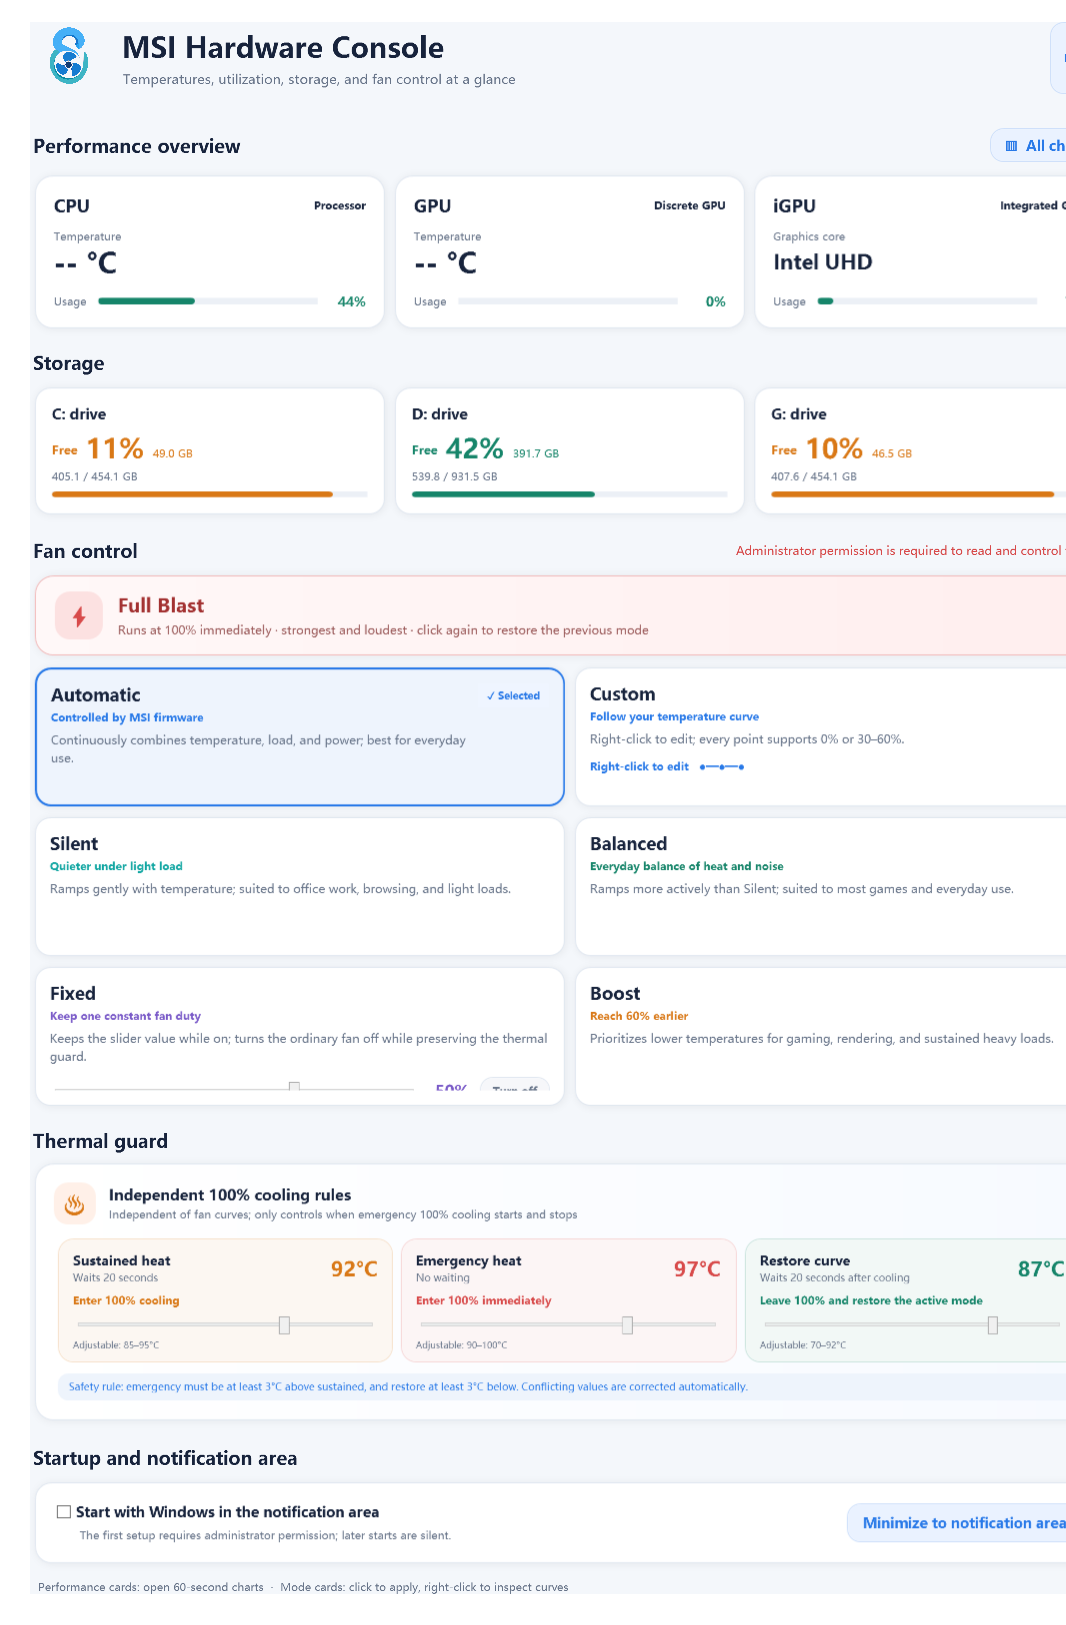
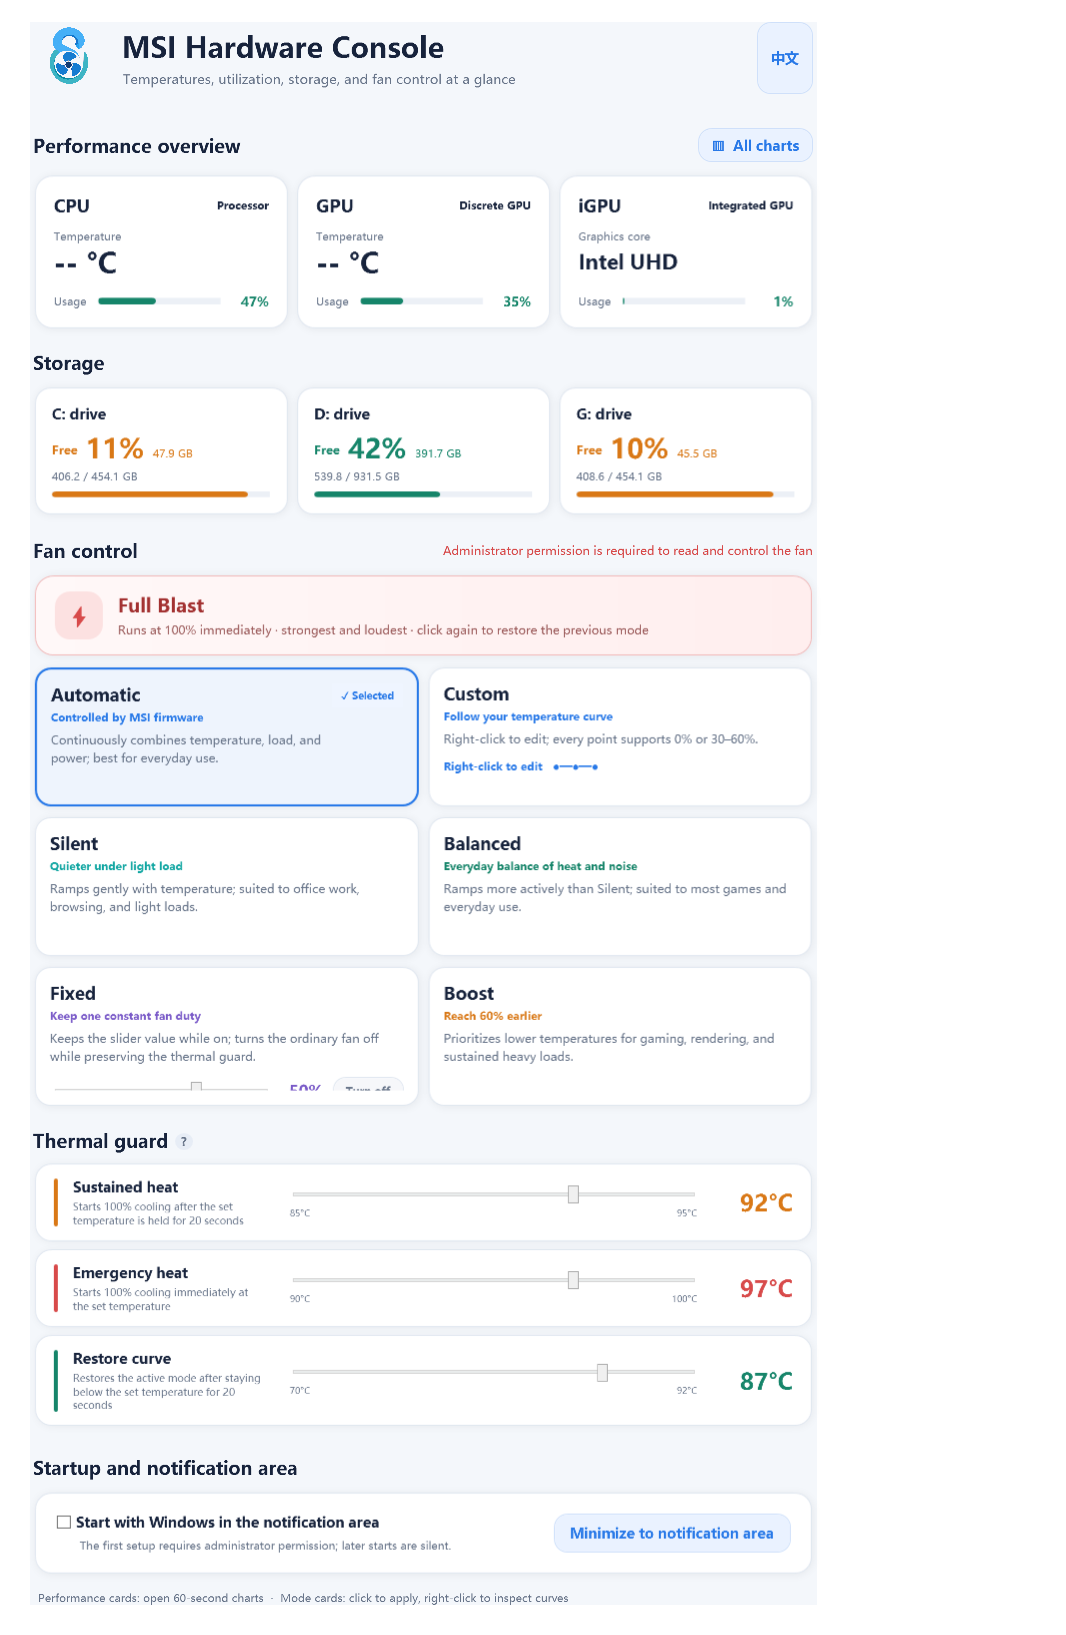
Redesign thermal guard controls (#6)
Redesign the Thermal guard section as three horizontal controls with hover help, while preserving the existing protection logic and safety constraints.

diff --git a/src/MainWindow.cs b/src/MainWindow.cs
@@ -208,7 +208,7 @@ namespace MsiHardwareConsole
             root.Children.Add(fanHeaderElement);
             root.Children.Add(BuildBlastCard());
             root.Children.Add(BuildModeGrid());
-            root.Children.Add(SectionHeader(T("Thermal guard", "高温保护"), null));
+            root.Children.Add(BuildProtectionHeader());
             root.Children.Add(BuildProtectionSettingsCard());
             root.Children.Add(SectionHeader(T("Startup and notification area", "启动与托盘"), null));
             root.Children.Add(BuildSettingsCard());
@@ -307,6 +307,69 @@ namespace MsiHardwareConsole
                 Grid.SetColumn(right, 1);
                 grid.Children.Add(right);
             }
+            return grid;
+        }
+
+        private UIElement BuildProtectionHeader()
+        {
+            var grid = new Grid { Margin = new Thickness(3, 18, 3, 8) };
+            grid.ColumnDefinitions.Add(new ColumnDefinition { Width = GridLength.Auto });
+            grid.ColumnDefinitions.Add(new ColumnDefinition { Width = GridLength.Auto });
+            grid.ColumnDefinitions.Add(new ColumnDefinition { Width = new GridLength(1, GridUnitType.Star) });
+            grid.Children.Add(new TextBlock
+            {
+                Text = T("Thermal guard", "高温保护"),
+                FontSize = 18,
+                FontWeight = FontWeights.SemiBold,
+                Foreground = TextBrush,
+                VerticalAlignment = VerticalAlignment.Center
+            });
+
+            var help = new Border
+            {
+                Width = 18,
+                Height = 18,
+                CornerRadius = new CornerRadius(9),
+                Background = MakeBrush("#E7EDF6"),
+                Margin = new Thickness(7, 1, 0, 0),
+                Cursor = Cursors.Help,
+                VerticalAlignment = VerticalAlignment.Center,
+                Child = new TextBlock
+                {
+                    Text = "?",
+                    FontSize = 12,
+                    FontWeight = FontWeights.Bold,
+                    Foreground = MutedBrush,
+                    HorizontalAlignment = HorizontalAlignment.Center,
+                    VerticalAlignment = VerticalAlignment.Center
+                }
+            };
+            help.ToolTip = new ToolTip
+            {
+                Padding = new Thickness(13, 10, 13, 10),
+                Content = new TextBlock
+                {
+                    Width = 390,
+                    TextWrapping = TextWrapping.Wrap,
+                    LineHeight = 19,
+                    Foreground = TextBrush,
+                    Text = T(
+                        "Thermal guard is independent of ordinary fan curves. Outside Automatic mode, it only controls when emergency 100% cooling starts and stops.\n\n" +
+                        "Sustained heat: starts 100% after the set temperature is held for 20 seconds.\n" +
+                        "Emergency heat: starts 100% immediately at the set temperature.\n" +
+                        "Restore curve: leaves 100% and restores the active mode after staying below the set temperature for 20 seconds.\n\n" +
+                        "Safety rule: emergency must be at least 3°C above sustained, and restore at least 3°C below. Conflicting values are corrected automatically.",
+                        "高温保护独立于普通风扇曲线，只在非自动模式下决定何时进入或退出 100% 紧急散热。\n\n" +
+                        "持续高温：达到设置温度并持续 20 秒后进入 100%。\n" +
+                        "紧急高温：达到设置温度后立即进入 100%。\n" +
+                        "恢复曲线：降到设置温度并持续 20 秒后退出 100%，恢复当前模式。\n\n" +
+                        "安全约束：紧急温度至少比持续温度高 3°C；恢复温度至少低 3°C。冲突的设置会自动修正。")
+                }
+            };
+            ToolTipService.SetInitialShowDelay(help, 120);
+            ToolTipService.SetShowDuration(help, 30000);
+            Grid.SetColumn(help, 1);
+            grid.Children.Add(help);
             return grid;
         }
 
@@ -496,100 +559,63 @@ namespace MsiHardwareConsole
 
         private UIElement BuildProtectionSettingsCard()
         {
-            var card = Card(new Thickness(18), 18);
-            card.Margin = new Thickness(5, 3, 5, 8);
-            card.Background = new LinearGradientBrush(Color.FromRgb(255, 255, 255), Color.FromRgb(247, 250, 255), 0);
-            var root = new StackPanel();
-            var heading = new Grid();
-            heading.ColumnDefinitions.Add(new ColumnDefinition { Width = GridLength.Auto });
-            heading.ColumnDefinitions.Add(new ColumnDefinition { Width = new GridLength(1, GridUnitType.Star) });
-            var icon = new Border
-            {
-                Width = 42,
-                Height = 42,
-                CornerRadius = new CornerRadius(14),
-                Background = MakeBrush("#FFF0E8"),
-                Margin = new Thickness(0, 0, 13, 0),
-                Child = new TextBlock { Text = "♨", FontSize = 21, Foreground = WarningBrush, HorizontalAlignment = HorizontalAlignment.Center, VerticalAlignment = VerticalAlignment.Center }
-            };
-            heading.Children.Add(icon);
-            var headingText = new StackPanel { VerticalAlignment = VerticalAlignment.Center };
-            headingText.Children.Add(new TextBlock { Text = T("Independent 100% cooling rules", "独立 100% 散热规则"), FontSize = 15, FontWeight = FontWeights.SemiBold, Foreground = TextBrush });
-            headingText.Children.Add(new TextBlock
-            {
-                Text = T("Independent of fan curves; only controls when emergency 100% cooling starts and stops", "独立于风扇曲线，只决定何时进入或退出 100% 紧急散热"),
-                FontSize = 11,
-                Foreground = MutedBrush,
-                Margin = new Thickness(0, 3, 0, 0)
-            });
-            Grid.SetColumn(headingText, 1);
-            heading.Children.Add(headingText);
-            root.Children.Add(heading);
-
-            var controls = new UniformGrid { Columns = 3, Margin = new Thickness(0, 14, 0, 0) };
-            controls.Children.Add(BuildProtectionTemperatureControl(
-                T("Sustained heat", "持续高温"), T("Waits 20 seconds", "达到后等待 20 秒"), T("Enter 100% cooling", "进入 100% 散热"), T("Adjustable: 85–95°C", "可调范围 85–95°C"),
+            var root = new StackPanel { Margin = new Thickness(0, -1, 0, 8) };
+            root.Children.Add(BuildProtectionTemperatureControl(
+                T("Sustained heat", "持续高温"), T("Starts 100% cooling after the set temperature is held for 20 seconds", "达到设定温度并持续 20 秒后，开启 100% 散热"),
                 85, 95, settings.SustainedFullBlastTemperature, WarningBrush,
-                out sustainedProtectionSlider, out sustainedProtectionValue,
-                T("Enables 100% after this temperature is sustained for 20 seconds", "达到该温度并持续 20 秒后开启 100%")));
-            controls.Children.Add(BuildProtectionTemperatureControl(
-                T("Emergency heat", "紧急高温"), T("No waiting", "达到后无需等待"), T("Enter 100% immediately", "立即进入 100% 散热"), T("Adjustable: 90–100°C", "可调范围 90–100°C"),
+                out sustainedProtectionSlider, out sustainedProtectionValue));
+            root.Children.Add(BuildProtectionTemperatureControl(
+                T("Emergency heat", "紧急高温"), T("Starts 100% cooling immediately at the set temperature", "达到设定温度后无需等待，立即开启 100% 散热"),
                 90, 100, settings.EmergencyFullBlastTemperature, DangerBrush,
-                out emergencyProtectionSlider, out emergencyProtectionValue,
-                T("Enables 100% immediately at this temperature", "达到该温度后立即开启 100%")));
-            controls.Children.Add(BuildProtectionTemperatureControl(
-                T("Restore curve", "恢复曲线"), T("Waits 20 seconds after cooling", "降温后等待 20 秒"), T("Leave 100% and restore the active mode", "退出 100% 并恢复当前模式"), T("Adjustable: 70–92°C", "可调范围 70–92°C"),
+                out emergencyProtectionSlider, out emergencyProtectionValue));
+            root.Children.Add(BuildProtectionTemperatureControl(
+                T("Restore curve", "恢复曲线"), T("Restores the active mode after staying below the set temperature for 20 seconds", "降到设定温度并持续 20 秒后，恢复当前模式曲线"),
                 70, 92, settings.FullBlastReleaseTemperature, GoodBrush,
-                out releaseProtectionSlider, out releaseProtectionValue,
-                T("Restores the selected curve after staying below this temperature for 20 seconds", "降到该温度并持续 20 秒后恢复所选曲线")));
-            root.Children.Add(controls);
-            var safetyNote = new Border
-            {
-                Background = MakeBrush("#EEF4FC"),
-                CornerRadius = new CornerRadius(10),
-                Padding = new Thickness(11, 7, 11, 7),
-                Margin = new Thickness(4, 10, 4, 0),
-                Child = new TextBlock
-                {
-                    Text = T(
-                        "Safety rule: emergency must be at least 3°C above sustained, and restore at least 3°C below. Conflicting values are corrected automatically.",
-                        "安全约束：紧急温度至少比持续温度高 3°C；恢复温度至少低 3°C。冲突的设置会自动修正。"),
-                    FontSize = 10,
-                    Foreground = AccentBrush
-                }
-            };
-            root.Children.Add(safetyNote);
+                out releaseProtectionSlider, out releaseProtectionValue));
             UpdateProtectionTemperatureLabels();
-            card.Child = root;
-            return card;
+            return root;
         }
 
-        private Border BuildProtectionTemperatureControl(string title, string timing, string action, string range,
-            int minimum, int maximum, int value, Brush accent, out Slider slider, out TextBlock valueText, string toolTip)
+        private Border BuildProtectionTemperatureControl(string title, string description,
+            int minimum, int maximum, int value, Brush accent, out Slider slider, out TextBlock valueText)
         {
             var card = new Border
             {
-                Margin = new Thickness(4, 0, 4, 0),
-                Padding = new Thickness(14, 12, 14, 11),
-                CornerRadius = new CornerRadius(15),
-                Background = MakeTint(accent, 0.055),
-                BorderBrush = MakeTint(accent, 0.22),
+                Margin = new Thickness(5, 4, 5, 4),
+                Padding = new Thickness(18, 13, 18, 13),
+                CornerRadius = new CornerRadius(16),
+                Background = SurfaceBrush,
+                BorderBrush = CardBorderBrush,
                 BorderThickness = new Thickness(1),
-                ToolTip = toolTip
+                Effect = new DropShadowEffect { Color = Color.FromRgb(38, 62, 99), BlurRadius = 13, ShadowDepth = 2, Opacity = 0.055 }
             };
-            var content = new StackPanel();
-            var heading = new Grid();
-            heading.ColumnDefinitions.Add(new ColumnDefinition { Width = new GridLength(1, GridUnitType.Star) });
-            heading.ColumnDefinitions.Add(new ColumnDefinition { Width = GridLength.Auto });
-            var labels = new StackPanel();
-            labels.Children.Add(new TextBlock { Text = title, FontSize = 13, FontWeight = FontWeights.SemiBold, Foreground = TextBrush });
-            labels.Children.Add(new TextBlock { Text = timing, FontSize = 10, Foreground = MutedBrush, Margin = new Thickness(0, 2, 0, 0) });
-            heading.Children.Add(labels);
-            valueText = new TextBlock { FontSize = 20, FontWeight = FontWeights.SemiBold, Foreground = accent, VerticalAlignment = VerticalAlignment.Center };
-            Grid.SetColumn(valueText, 1);
-            heading.Children.Add(valueText);
-            content.Children.Add(heading);
-            content.Children.Add(new TextBlock { Text = action, FontSize = 11, Foreground = accent, FontWeight = FontWeights.SemiBold, Margin = new Thickness(0, 8, 0, 0) });
+            var content = new Grid();
+            content.ColumnDefinitions.Add(new ColumnDefinition { Width = new GridLength(4) });
+            content.ColumnDefinitions.Add(new ColumnDefinition { Width = new GridLength(230) });
+            content.ColumnDefinitions.Add(new ColumnDefinition { Width = new GridLength(1, GridUnitType.Star) });
+            content.ColumnDefinitions.Add(new ColumnDefinition { Width = new GridLength(94) });
+            content.Children.Add(new Border
+            {
+                Width = 4,
+                CornerRadius = new CornerRadius(2),
+                Background = accent,
+                Margin = new Thickness(0, 1, 0, 1)
+            });
+
+            var labels = new StackPanel { Margin = new Thickness(15, 0, 24, 0), VerticalAlignment = VerticalAlignment.Center };
+            labels.Children.Add(new TextBlock { Text = title, FontSize = 14, FontWeight = FontWeights.SemiBold, Foreground = TextBrush });
+            labels.Children.Add(new TextBlock
+            {
+                Text = description,
+                FontSize = 10.5,
+                Foreground = MutedBrush,
+                TextWrapping = TextWrapping.Wrap,
+                Margin = new Thickness(0, 4, 0, 0)
+            });
+            Grid.SetColumn(labels, 1);
+            content.Children.Add(labels);
+
+            var sliderArea = new StackPanel { VerticalAlignment = VerticalAlignment.Center };
             slider = new Slider
             {
                 Minimum = minimum,
@@ -599,14 +625,33 @@ namespace MsiHardwareConsole
                 SmallChange = 1,
                 LargeChange = 2,
                 IsSnapToTickEnabled = true,
-                Margin = new Thickness(0, 9, 0, 0),
                 Cursor = Cursors.Hand
             };
             slider.ValueChanged += delegate { UpdateProtectionTemperatureLabels(); };
             slider.PreviewMouseLeftButtonUp += delegate { CommitProtectionTemperatureSettings(); };
             slider.KeyUp += delegate { CommitProtectionTemperatureSettings(); };
-            content.Children.Add(slider);
-            content.Children.Add(new TextBlock { Text = range, FontSize = 9, Foreground = MutedBrush, Margin = new Thickness(0, 4, 0, 0) });
+            sliderArea.Children.Add(slider);
+            var endpoints = new Grid { Margin = new Thickness(2, 3, 2, 0) };
+            endpoints.ColumnDefinitions.Add(new ColumnDefinition { Width = new GridLength(1, GridUnitType.Star) });
+            endpoints.ColumnDefinitions.Add(new ColumnDefinition { Width = GridLength.Auto });
+            endpoints.Children.Add(new TextBlock { Text = minimum + "°C", FontSize = 9, Foreground = MutedBrush });
+            var maximumText = new TextBlock { Text = maximum + "°C", FontSize = 9, Foreground = MutedBrush };
+            Grid.SetColumn(maximumText, 1);
+            endpoints.Children.Add(maximumText);
+            sliderArea.Children.Add(endpoints);
+            Grid.SetColumn(sliderArea, 2);
+            content.Children.Add(sliderArea);
+
+            valueText = new TextBlock
+            {
+                FontSize = 23,
+                FontWeight = FontWeights.SemiBold,
+                Foreground = accent,
+                HorizontalAlignment = HorizontalAlignment.Right,
+                VerticalAlignment = VerticalAlignment.Center
+            };
+            Grid.SetColumn(valueText, 3);
+            content.Children.Add(valueText);
             card.Child = content;
             return card;
         }

diff --git a/src/Program.cs b/src/Program.cs
@@ -9,8 +9,8 @@ using System.Windows.Threading;
 [assembly: AssemblyProduct("MSI Hardware Console")]
 [assembly: AssemblyDescription("Unofficial MSI laptop hardware monitor and fan controller")]
 [assembly: AssemblyCompany("Acblade")]
-[assembly: AssemblyVersion("0.1.5.0")]
-[assembly: AssemblyFileVersion("0.1.5.0")]
+[assembly: AssemblyVersion("0.1.6.0")]
+[assembly: AssemblyFileVersion("0.1.6.0")]
 
 namespace MsiHardwareConsole
 {

diff --git a/RELEASE_NOTES.md b/RELEASE_NOTES.md
@@ -1,35 +1,31 @@
-# MSI Hardware Console 0.1.5
+# MSI Hardware Console 0.1.6
 
 ## English
 
-This release corrects the page hierarchy, curve scale, and adjustable thermal-guard ranges.
+This release redesigns the Thermal guard section without changing its protection logic.
 
 Highlights:
 
-- Thermal guard is now a top-level page section after all Fan control modes and before Startup
-- Ordinary fan-curve charts use their real 0–60% range and no longer display the unavailable 60–100% area
-- Full Blast remains the only curve view that displays 0–100%
-- Sustained heat is adjustable from 85–95°C
-- Emergency heat is adjustable from 90–100°C
-- Curve restoration is adjustable from 70–92°C
-- Automatic 3°C separation still prevents conflicting or unsafe threshold combinations
+- The large nested panel has been removed; the section now uses the page background directly
+- Sustained heat, Emergency heat, and Restore curve are independent horizontal cards
+- Each card presents its purpose, slider range, and current threshold in one clear row
+- Detailed behavior and safety guidance now appears from the small `?` icon beside the Thermal guard title
+- Existing ranges, 20-second confirmation periods, and automatic 3°C threshold separation are unchanged
 - English and Simplified Chinese screenshots and documentation are updated
 
 The verified hardware allowlist and firmware write boundaries are unchanged. The executable is unsigned; verify the attached SHA-256 file before running it.
 
 ## 中文
 
-此版本修正页面层级、曲线纵轴和高温保护的可调范围。
+此版本重新设计“高温保护”界面，不改变任何保护逻辑。
 
 主要内容：
 
-- “高温保护”现在是与“性能概览”“硬盘空间”“风扇控制”同级的页面板块，位于全部风扇模式之后、“启动与托盘”之前
-- 普通风扇曲线图只显示真实可用的 0–60%，不再显示无法调整的 60–100% 区域
-- 只有“狂暴散热”的曲线图继续显示 0–100%
-- “持续高温”可调范围扩大到 85–95°C
-- “紧急高温”可调范围扩大到 90–100°C
-- “恢复曲线”可调范围扩大到 70–92°C
-- 系统仍会自动保持 3°C 安全间隔，避免阈值冲突
+- 移除包住全部内容的大型嵌套面板，板块直接使用页面背景
+- “持续高温”“紧急高温”“恢复曲线”改为三张独立的横向卡片
+- 每张卡片在同一行中清晰呈现用途、滑条范围和当前温度
+- 完整行为说明与安全规则移到“高温保护”标题旁的小问号悬停提示中
+- 原有可调范围、20 秒确认时间和自动 3°C 安全间隔保持不变
 - 中英文截图与文档同步更新
 
 已验证硬件白名单和固件写入边界没有变化。当前可执行文件没有代码签名，运行前请核对随 Release 提供的 SHA-256。

diff --git a/README.md b/README.md
@@ -5,7 +5,7 @@
 An unofficial, lightweight Windows dashboard and MSI laptop fan controller. It shows CPU/GPU utilization and temperatures, storage usage, fan RPM, fan modes, and editable temperature-to-fan curves without requiring MSI Center.
 
 > [!WARNING]
-> Fan control writes to firmware through MSI's ACPI WMI interface. Hardware support is model-specific. Version 0.1.5 enables fan writes only on the verified MSI Cyborg 15 A13VE with WMI interface 2.8; other systems run in monitoring-only mode.
+> Fan control writes to firmware through MSI's ACPI WMI interface. Hardware support is model-specific. Version 0.1.6 enables fan writes only on the verified MSI Cyborg 15 A13VE with WMI interface 2.8; other systems run in monitoring-only mode.
 
 ![English dashboard](docs/images/dashboard-en.png)
 
@@ -46,7 +46,7 @@ See [COMPATIBILITY.md](docs/COMPATIBILITY.md) before requesting support for anot
 
 ## Download and use
 
-1. Download `MSI-Hardware-Console-v0.1.5-win-x64.zip` from GitHub Releases.
+1. Download `MSI-Hardware-Console-v0.1.6-win-x64.zip` from GitHub Releases.
 2. Extract the entire archive.
 3. Run `MSIHardwareConsole.exe` and approve the Windows administrator prompt.
 4. The public build starts in English. Click **中文** in the upper-right corner to switch languages.
@@ -117,6 +117,6 @@ MSI and MSI Center are trademarks of Micro-Star INT'L CO., LTD. This community p
 
 MSI Hardware Console 是一个非官方的轻量 Windows 硬件面板，可显示 CPU/GPU 占用率与温度、硬盘空间、风扇转速，并在兼容机型上直接设置风扇模式和温度曲线，不依赖 MSI Center。
 
-公开版默认英文，可在右上角即时切换简体中文。0.1.5 版本只确认支持 **MSI Cyborg 15 A13VE、WMI 2.8、单风扇**；其他电脑默认锁定风扇写入，仅提供监控，避免在未验证固件上冒险操作。
+公开版默认英文，可在右上角即时切换简体中文。0.1.6 版本只确认支持 **MSI Cyborg 15 A13VE、WMI 2.8、单风扇**；其他电脑默认锁定风扇写入，仅提供监控，避免在未验证固件上冒险操作。
 
 完整中文说明见 [README.zh-CN.md](README.zh-CN.md)。

diff --git a/CHANGELOG.md b/CHANGELOG.md
@@ -1,5 +1,11 @@
 # Changelog
 
+## 0.1.6
+
+- Redesigned Thermal guard as three independent horizontal controls on a transparent section background
+- Moved the detailed behavior and safety guidance into a compact hover-help icon beside the section title
+- Preserved all existing temperature ranges, delays, and automatic 3°C safety separation
+
 ## 0.1.5
 
 - Promoted Thermal guard to a top-level section between Fan control and Startup
